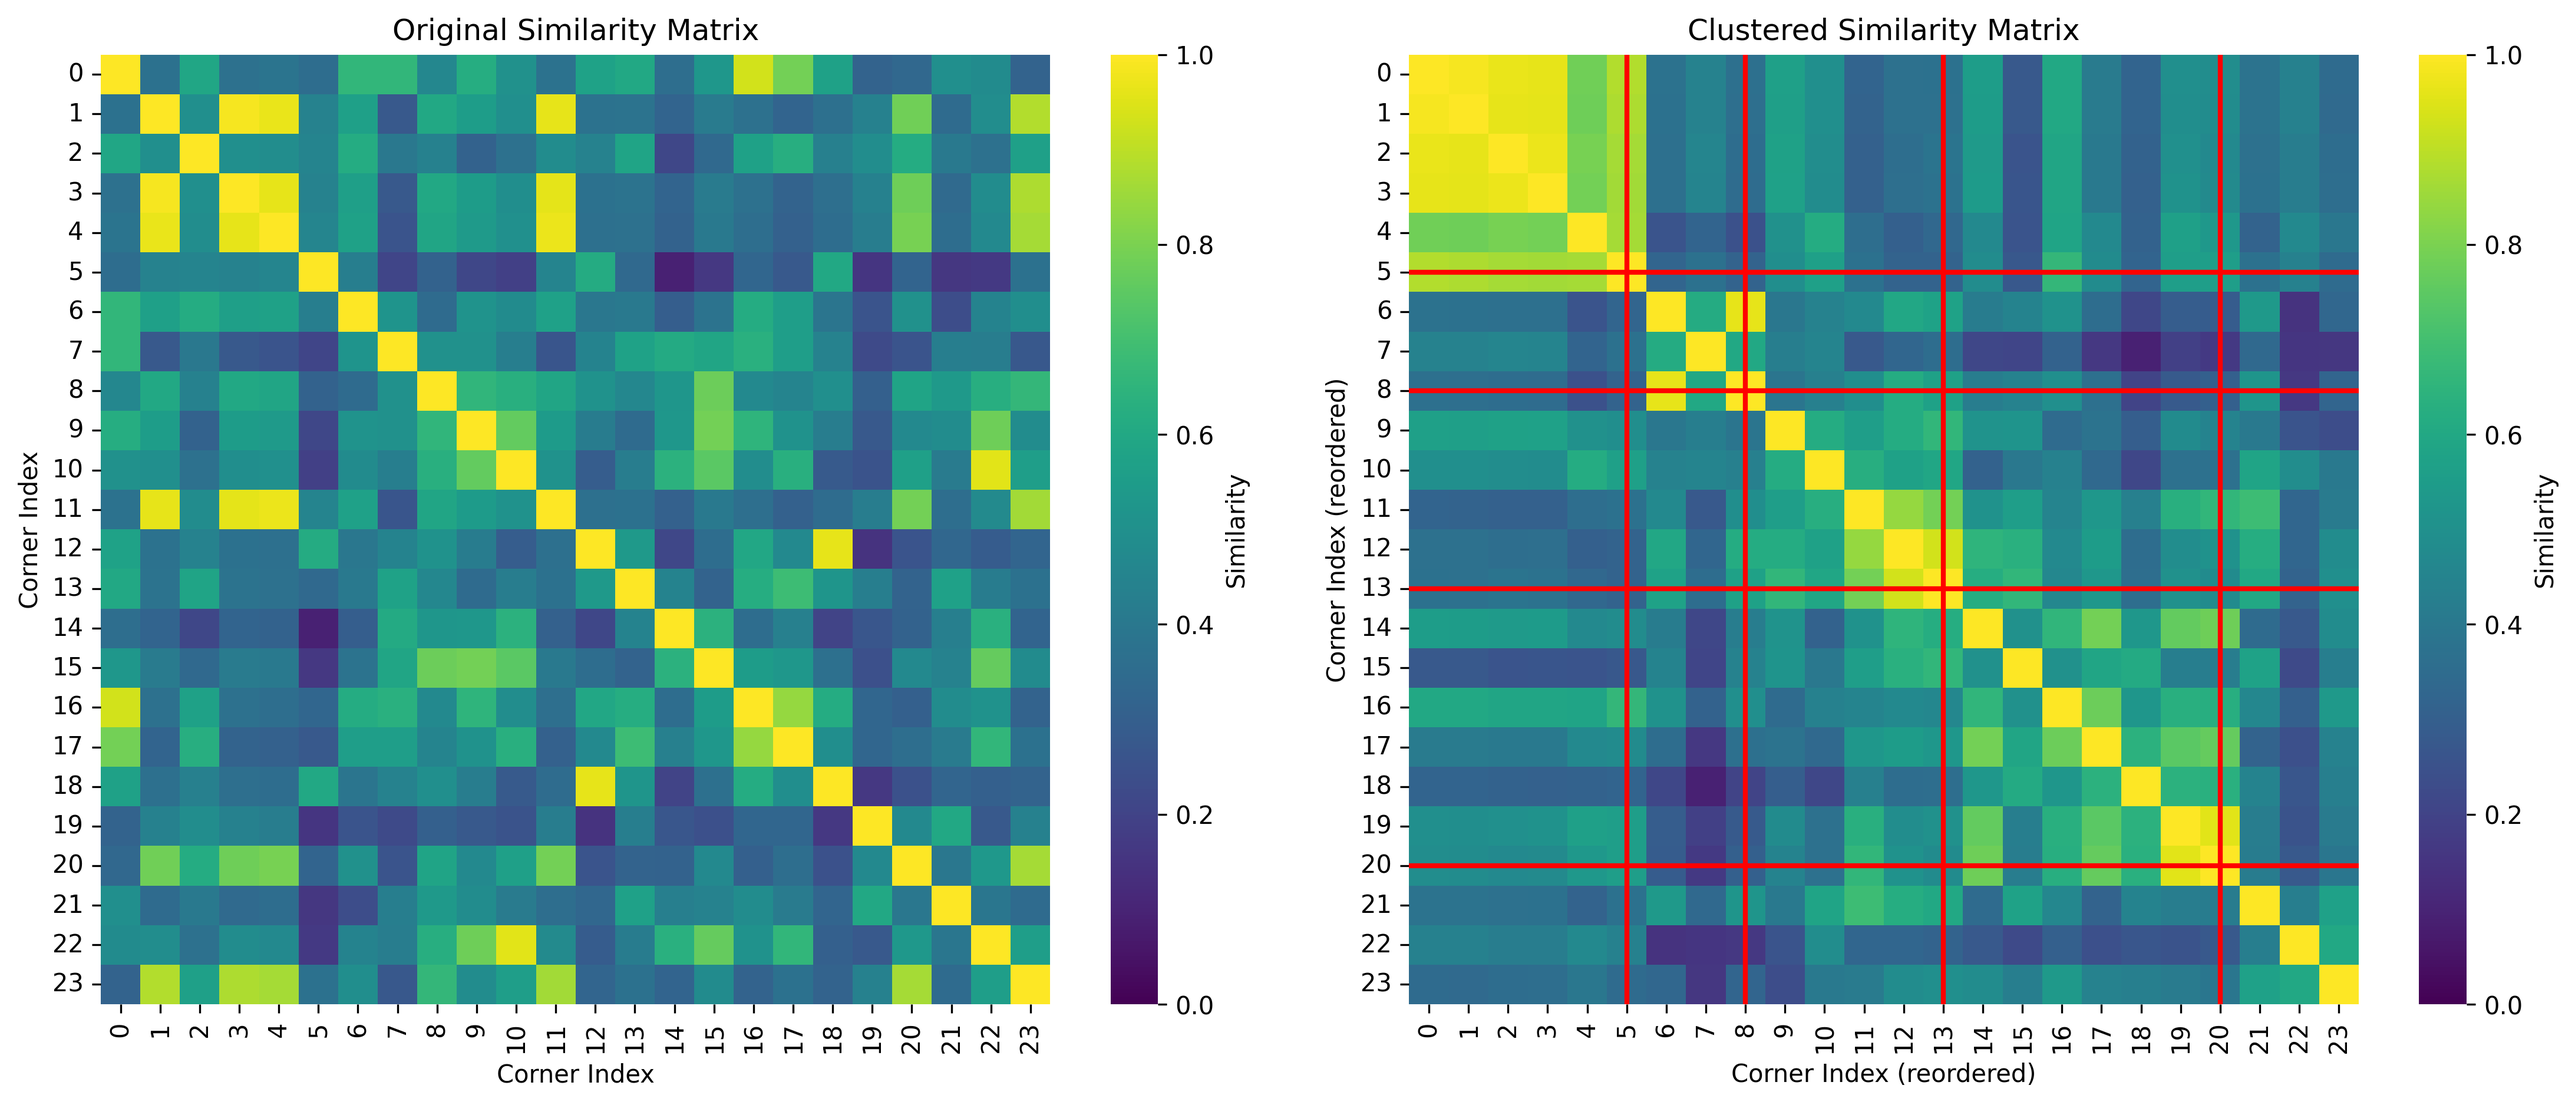
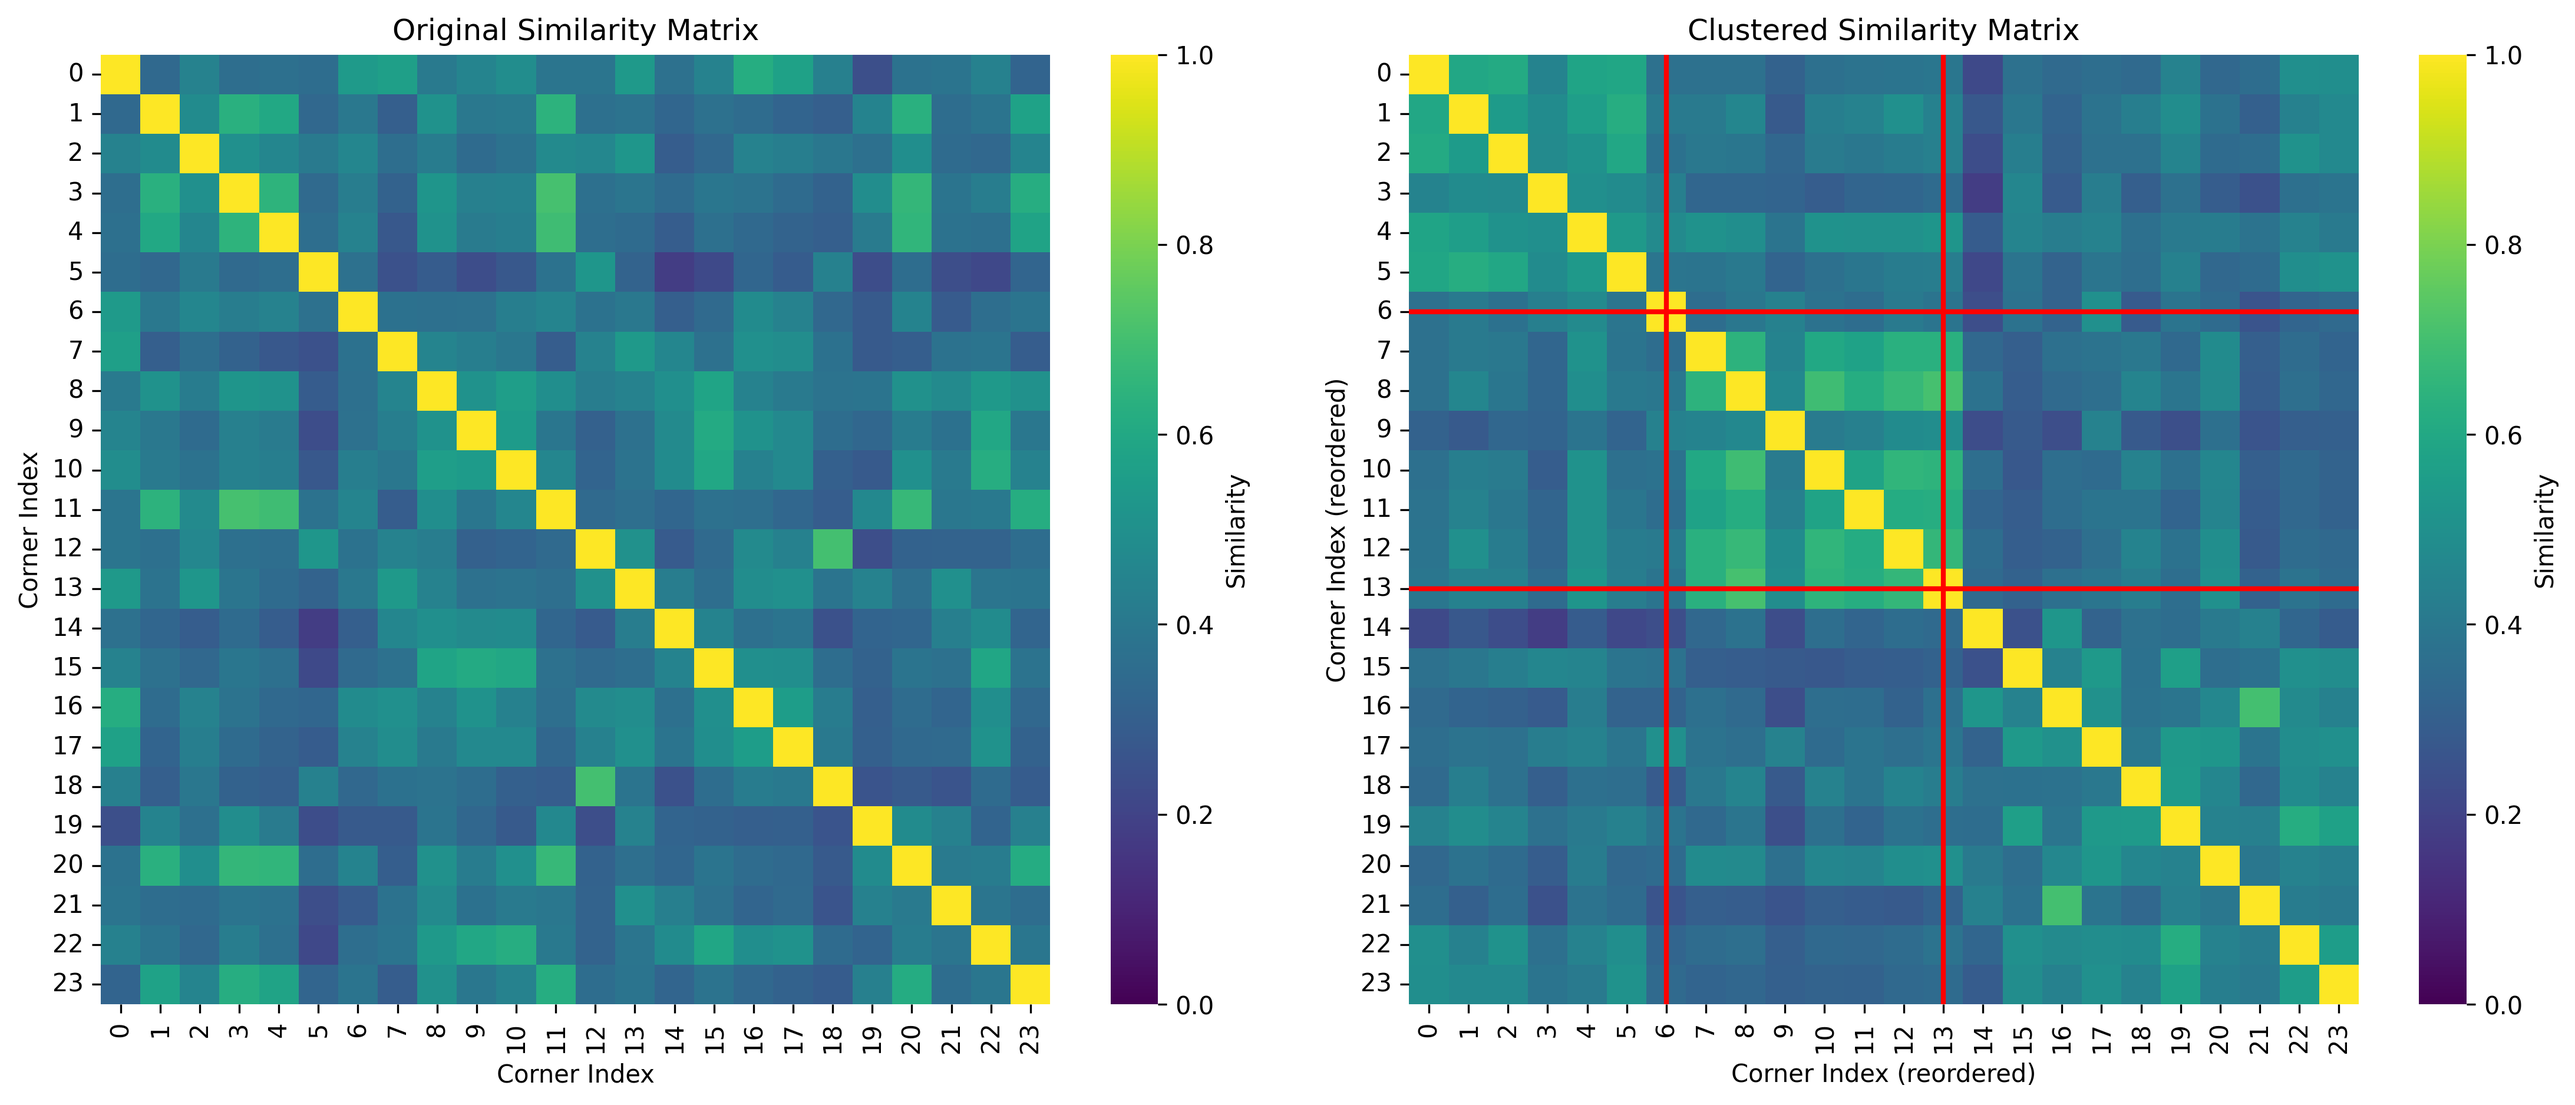
add decomposed path similarity

diff --git a/clustering/similarity.py b/clustering/similarity.py
@@ -5,7 +5,7 @@ import pandas as pd
 from scipy.optimize import linear_sum_assignment
 from scipy.spatial.distance import euclidean
 
-from tools.settings import ROLE_WEIGHTS
+from tools.settings import ROLE_WEIGHTS, SIMILARITY_SETTINGS
 
 
 class SimilarityCalculator:
@@ -16,7 +16,12 @@ class SimilarityCalculator:
     and provides different similarity calculation methods.
     """
 
-    def __init__(self, corners: pd.DataFrame, players: pd.DataFrame):
+    def __init__(
+        self,
+        corners: pd.DataFrame,
+        players: pd.DataFrame,
+        similarity_settings: dict = SIMILARITY_SETTINGS,
+    ):
         """
         Initialize the similarity matrix calculator.
 
@@ -28,16 +33,13 @@ class SimilarityCalculator:
         self.players = players
         self.corner_ids = corners["ID"].tolist()
         self.n_corners = len(self.corner_ids)
+        self.similarity_settings = similarity_settings
 
         # Role hierarchy - higher values = more important
         self.role_weights = ROLE_WEIGHTS
 
         # Component weights for final similarity score
-        self.component_weights = {
-            "role_position": 0.7,  # Role-weighted position similarity
-            "role_composition": 0.2,  # Role structure similarity
-            "player_count": 0.1,  # Player count similarity
-        }
+        self.component_weights = self.similarity_settings["component_weights"]
 
         # Field dimensions for normalization (based on your zone structure)
         self.field_width = 80  # x-axis
@@ -51,8 +53,8 @@ class SimilarityCalculator:
         norm_y = y / self.field_length
         return norm_x, norm_y
 
-    def calculate_position_distance(
-        self, player1: pd.Series, player2: pd.Series
+    def calculate_path_similarity(
+        self, player_1: pd.Series, player_2: pd.Series, method: str = "euclidean"
     ) -> float:
         """
         Calculate 4D distance between two players (start and end positions).
@@ -65,30 +67,34 @@ class SimilarityCalculator:
         """
         # Check for NaN values and return max distance if any are found
         coords1 = [
-            player1["start_x"],
-            player1["start_y"],
-            player1["end_x"],
-            player1["end_y"],
+            player_1["start_x"],
+            player_1["start_y"],
+            player_1["end_x"],
+            player_1["end_y"],
         ]
         coords2 = [
-            player2["start_x"],
-            player2["start_y"],
-            player2["end_x"],
-            player2["end_y"],
+            player_2["start_x"],
+            player_2["start_y"],
+            player_2["end_x"],
+            player_2["end_y"],
         ]
 
         if any(pd.isna(coords1)) or any(pd.isna(coords2)):
-            return 1.0  # Maximum distance for missing data
+            return 0.0  # Zero similarity for missing data
 
         # normalise coordinates
         start1_x, start1_y = self.normalise_coordinates(
-            player1["start_x"], player1["start_y"]
+            player_1["start_x"], player_1["start_y"]
         )
-        end1_x, end1_y = self.normalise_coordinates(player1["end_x"], player1["end_y"])
+        end1_x, end1_y = self.normalise_coordinates(
+            player_1["end_x"], player_1["end_y"]
+        )
         start2_x, start2_y = self.normalise_coordinates(
-            player2["start_x"], player2["start_y"]
+            player_2["start_x"], player_2["start_y"]
         )
-        end2_x, end2_y = self.normalise_coordinates(player2["end_x"], player2["end_y"])
+        end2_x, end2_y = self.normalise_coordinates(
+            player_2["end_x"], player_2["end_y"]
+        )
 
         # Check for any NaN values after normalization
         normalised_coords = [
@@ -102,46 +108,100 @@ class SimilarityCalculator:
             end2_y,
         ]
         if any(pd.isna(normalised_coords)) or any(np.isinf(normalised_coords)):
-            return 1.0  # Maximum distance for invalid coordinates
+            return 0.0  # Zero similarity for missing or invalid data
 
-        # Calculate Euclidean distances for start and end positions
-        start_distance = euclidean([start1_x, start1_y], [start2_x, start2_y])
-        end_distance = euclidean([end1_x, end1_y], [end2_x, end2_y])
+        if method == "euclidean":
+            # Calculate Euclidean distances for start and end positions
+            start_distance = euclidean([start1_x, start1_y], [start2_x, start2_y])
+            end_distance = euclidean([end1_x, end1_y], [end2_x, end2_y])
 
-        # Average the distances and normalise (max possible distance is sqrt(2))
-        avg_distance = (start_distance + end_distance) / 2
-        normalised_distance = avg_distance / np.sqrt(2)
+            # Average the distances and normalise (max possible distance is sqrt(2))
+            avg_distance = (start_distance + end_distance) / 2
+            normalised_distance = avg_distance / np.sqrt(2)
 
-        return normalised_distance
+            path_similarity = 1 - normalised_distance  # Convert to similarity
 
-    def calculate_role_position_similarity(
-        self, role_players1: pd.DataFrame, role_players2: pd.DataFrame
+        elif method == "decomposed":
+            # Component 1: Start position distance
+            start_distance = euclidean((start1_x, start1_y), (start2_x, start2_y))
+            start_similarity = 1 - start_distance / np.sqrt(2)
+
+            # Component 2: Path length difference
+            path1_length = euclidean((start1_x, start1_y), (end1_x, end1_y))
+            path2_length = euclidean((start2_x, start2_y), (end2_x, end2_y))
+
+            if path1_length + path2_length == 0:
+                length_similarity = 1.0  # Both paths are zero-length
+            else:
+                length_similarity = 1 - abs(path1_length - path2_length) / (
+                    path1_length + path2_length
+                )
+
+            # Component 3: Path direction difference
+            if path1_length > 0 and path2_length > 0:
+                path1_direction = (
+                    (end1_x - start1_x) / path1_length,
+                    (end1_y - start1_y) / path1_length,
+                )
+                path2_direction = (
+                    (end2_x - start2_x) / path2_length,
+                    (end2_y - start2_y) / path2_length,
+                )
+                direction_similarity = np.dot(
+                    path1_direction, path2_direction
+                )  # Cosine similarity
+                direction_similarity = (
+                    direction_similarity + 1
+                ) / 2  # Normalise to [0,1]
+
+            elif path1_length == 0 and path2_length == 0:
+                direction_similarity = 1.0  # Both paths are zero-length
+            else:
+                direction_similarity = 0.0  # One path is zero-length
+
+            path_similarity = (
+                self.similarity_settings["path_similarity_weights"]["start_similarity"]
+                * start_similarity
+                + self.similarity_settings["path_similarity_weights"][
+                    "length_similarity"
+                ]
+                * length_similarity
+                + self.similarity_settings["path_similarity_weights"][
+                    "direction_similarity"
+                ]
+                * direction_similarity
+            )
+
+        return path_similarity
+
+    def calculate_role_weighted_path_similarity(
+        self, role_players_1: pd.DataFrame, role_players_2: pd.DataFrame
     ) -> float:
         """
         Calculate optimal matching similarity for players in the same role.
 
         Args:
-            role_players1, role_players2: DataFrames of players with the same role
+            role_players_1, role_players_2: DataFrames of players with the same role
 
         Returns:
             Similarity score between 0 and 1
         """
-        if len(role_players1) == 0 or len(role_players2) == 0:
+        if len(role_players_1) == 0 or len(role_players_2) == 0:
             return 0.0
 
         # Create distance matrix
         distances = []
-        for _, p1 in role_players1.iterrows():
+        for _, p1 in role_players_1.iterrows():
             row = []
-            for _, p2 in role_players2.iterrows():
-                distance = self.calculate_position_distance(p1, p2)
+            for _, p2 in role_players_2.iterrows():
+                distance = self.calculate_path_similarity(p1, p2, method="decomposed")
                 row.append(distance)
             distances.append(row)
 
         distances = np.array(distances)
 
         # Handle different numbers of players using padding
-        max_players = max(len(role_players1), len(role_players2))
+        max_players = max(len(role_players_1), len(role_players_2))
         padded_distances = np.ones(
             (max_players, max_players)
         )  # Fill with high distance (1.0)
@@ -161,19 +221,19 @@ class SimilarityCalculator:
         return max(0, similarity)  # Ensure non-negative
 
     def calculate_role_composition_similarity(
-        self, corner1_players: pd.DataFrame, corner2_players: pd.DataFrame
+        self, corner_1_players: pd.DataFrame, corner_2_players: pd.DataFrame
     ) -> float:
         """
         Calculate similarity based on which roles are present in each corner.
 
         Args:
-            corner1_players, corner2_players: DataFrames of players for each corner
+            corner_1_players, corner_2_players: DataFrames of players for each corner
 
         Returns:
             Role composition similarity score between 0 and 1
         """
-        roles1 = set(corner1_players["Role"].unique())
-        roles2 = set(corner2_players["Role"].unique())
+        roles1 = set(corner_1_players["Role"].unique())
+        roles2 = set(corner_2_players["Role"].unique())
 
         all_roles = roles1.union(roles2)
 
@@ -194,19 +254,19 @@ class SimilarityCalculator:
         return intersection_weight / union_weight if union_weight > 0 else 0
 
     def calculate_player_count_similarity(
-        self, corner1_players: pd.DataFrame, corner2_players: pd.DataFrame
+        self, corner_1_players: pd.DataFrame, corner_2_players: pd.DataFrame
     ) -> float:
         """
         Calculate similarity based on total number of players.
 
         Args:
-            corner1_players, corner2_players: DataFrames of players for each corner
+            corner_1_players, corner_2_players: DataFrames of players for each corner
 
         Returns:
             Player count similarity score between 0 and 1
         """
-        count1 = len(corner1_players)
-        count2 = len(corner2_players)
+        count1 = len(corner_1_players)
+        count2 = len(corner_2_players)
 
         if count1 == 0 and count2 == 0:
             return 1.0
@@ -216,44 +276,44 @@ class SimilarityCalculator:
 
         return min_count / max_count if max_count > 0 else 0
 
-    def calculate_corner_similarity(self, corner1_id: str, corner2_id: str) -> float:
+    def calculate_corner_similarity(self, corner_1_id: str, corner_2_id: str) -> float:
         """
         Calculate comprehensive similarity between two corners.
 
         Args:
-            corner1_id, corner2_id: Corner identifiers
+            corner_1_id, corner_2_id: Corner identifiers
 
         Returns:
             Similarity score between 0 and 1
         """
-        corner1_players = self.players[self.players["Corner ID"] == corner1_id].copy()
-        corner2_players = self.players[self.players["Corner ID"] == corner2_id].copy()
+        corner_1_players = self.players[self.players["Corner ID"] == corner_1_id].copy()
+        corner_2_players = self.players[self.players["Corner ID"] == corner_2_id].copy()
 
-        if len(corner1_players) == 0 or len(corner2_players) == 0:
+        if len(corner_1_players) == 0 or len(corner_2_players) == 0:
             return 0.0
 
         # Component 1: Role-weighted position similarity
         role_similarities = []
         total_role_weight = 0
 
-        all_roles = set(corner1_players["Role"].unique()).union(
-            set(corner2_players["Role"].unique())
+        all_roles = set(corner_1_players["Role"].unique()).union(
+            set(corner_2_players["Role"].unique())
         )
 
         for role in all_roles:
             role_weight = self.role_weights.get(role, 0.1)
-            role1_players = corner1_players[corner1_players["Role"] == role]
-            role2_players = corner2_players[corner2_players["Role"] == role]
+            role_players_1 = corner_1_players[corner_1_players["Role"] == role]
+            role_players_2 = corner_2_players[corner_2_players["Role"] == role]
 
-            if len(role1_players) == 0 and len(role2_players) == 0:
+            if len(role_players_1) == 0 and len(role_players_2) == 0:
                 continue
 
-            if len(role1_players) == 0 or len(role2_players) == 0:
-                # Role missing in one corner - penalty proportional to importance
+            if len(role_players_1) == 0 or len(role_players_2) == 0:
+                # Role missing in one corner
                 role_similarity = 0.0
             else:
-                role_similarity = self.calculate_role_position_similarity(
-                    role1_players, role2_players
+                role_similarity = self.calculate_role_weighted_path_similarity(
+                    role_players_1, role_players_2
                 )
 
             role_similarities.append(role_similarity * role_weight)
@@ -265,19 +325,22 @@ class SimilarityCalculator:
 
         # Component 2: Role composition similarity
         role_composition_similarity = self.calculate_role_composition_similarity(
-            corner1_players, corner2_players
+            corner_1_players, corner_2_players
         )
 
         # Component 3: Player count similarity
         player_count_similarity = self.calculate_player_count_similarity(
-            corner1_players, corner2_players
+            corner_1_players, corner_2_players
         )
 
         # Combine components
         final_similarity = (
-            self.component_weights["role_position"] * role_position_similarity
-            + self.component_weights["role_composition"] * role_composition_similarity
-            + self.component_weights["player_count"] * player_count_similarity
+            self.component_weights["role_weighted_path_similarity"]
+            * role_position_similarity
+            + self.component_weights["role_composition_similarity"]
+            * role_composition_similarity
+            + self.component_weights["player_count_similarity"]
+            * player_count_similarity
         )
 
         return final_similarity

diff --git a/tools/settings.py b/tools/settings.py
@@ -116,3 +116,16 @@ ROLE_WEIGHTS = {
     "Blocker": 0.6,
     "Mop up": 0.01,
 }
+
+SIMILARITY_SETTINGS = {
+    "component_weights": {
+        "role_weighted_path_similarity": 0.5,
+        "role_composition_similarity": 0.3,
+        "player_count_similarity": 0.2,
+    },
+    "path_similarity_weights": {
+        "start_similarity": 0.4,
+        "length_similarity": 0.3,
+        "direction_similarity": 0.3,
+    },
+}
